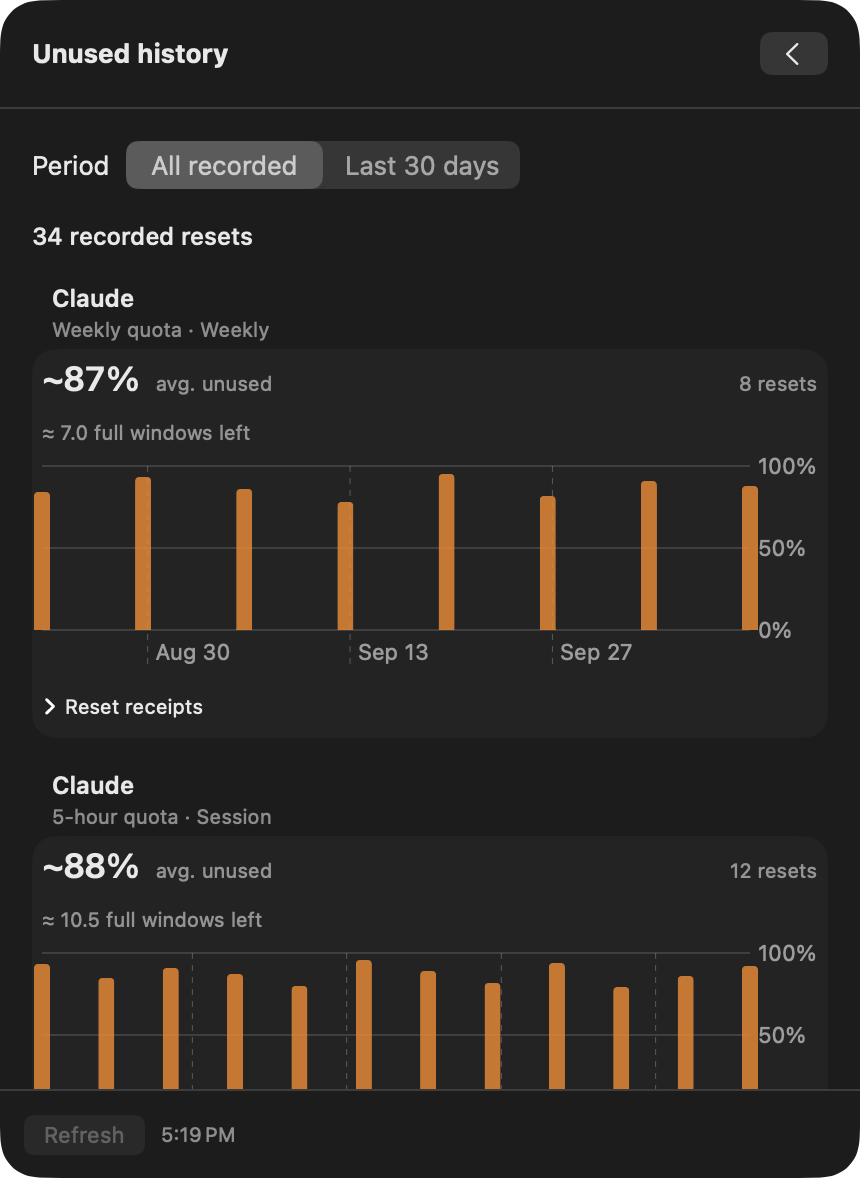
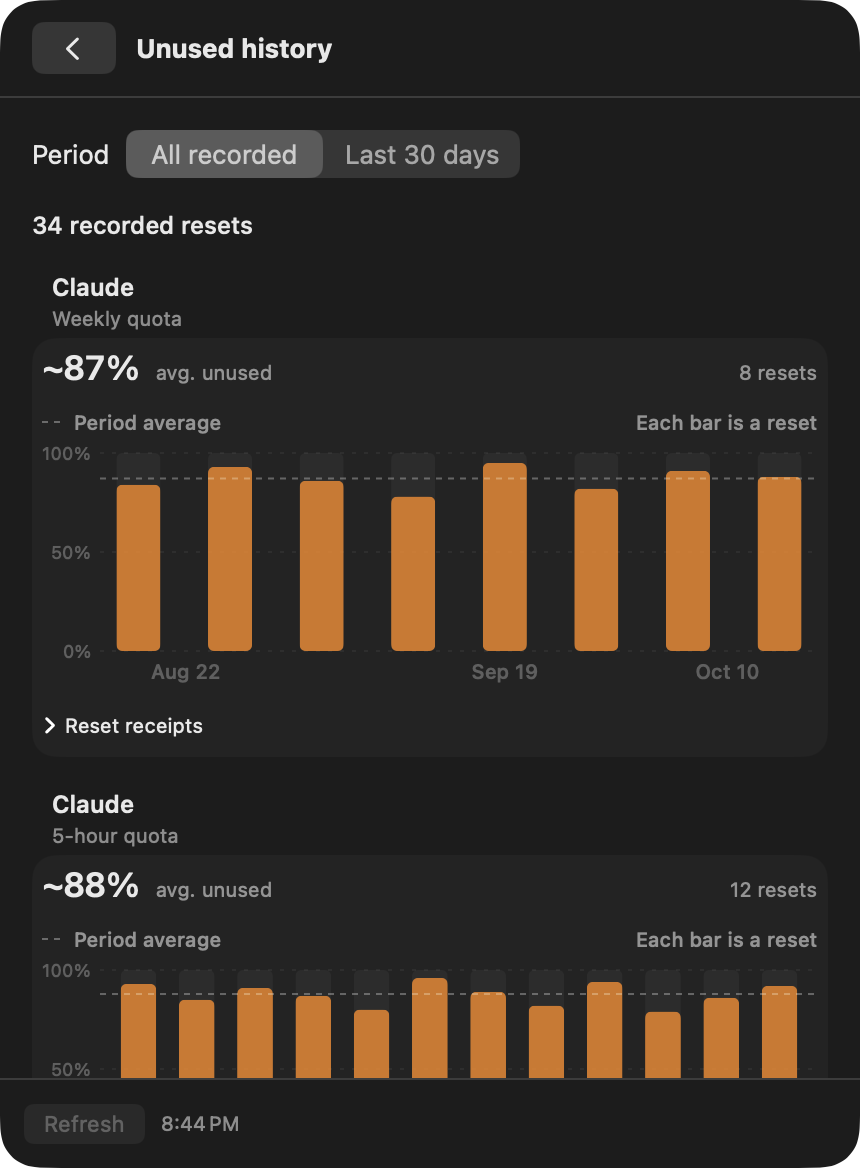
Clarify unused quota history with capacity tracks and reset inspection

diff --git a/Sources/BubbleTaxBar/UnusedHistoryView.swift b/Sources/BubbleTaxBar/UnusedHistoryView.swift
@@ -25,7 +25,7 @@ struct UnusedHistoryView: View {
                             .font(.callout).foregroundStyle(.secondary)
                     }.padding(.vertical, 16)
                 } else {
-                    Text("\(groups.reduce(0) { $0 + $1.windows.count }) recorded resets")
+                    Text("\(groups.reduce(0) { $0 + $1.windows.count }) recorded \(groups.reduce(0) { $0 + $1.windows.count } == 1 ? "reset" : "resets")")
                         .font(.callout.weight(.medium))
                     ForEach(groups) { group in
                         UnusedHistoryGroup(group: group,
@@ -44,6 +44,11 @@ struct UnusedHistoryView: View {
 private struct UnusedHistoryGroup: View {
     let group: UnusedQuotaGroup
     let previousAccount: Bool
+    private var subtitle: String {
+        let parts = group.title.components(separatedBy: " · ")
+        if parts.count == 2, parts[0].localizedCaseInsensitiveContains(parts[1]) || (group.windowMinutes == 300 && parts[1] == "Session") { return parts[0] }
+        return group.title
+    }
     var body: some View {
         GroupBox {
             VStack(alignment: .leading, spacing: 10) {
@@ -52,24 +57,13 @@ private struct UnusedHistoryGroup: View {
                         .font(.title2.weight(.semibold)).monospacedDigit()
                     Text("avg. unused").font(.caption).foregroundStyle(.secondary)
                     Spacer()
-                    Text("\(group.windows.count) resets").font(.caption).foregroundStyle(.secondary)
+                    Text("\(group.windows.count) \(group.windows.count == 1 ? "reset" : "resets")").font(.caption).foregroundStyle(.secondary)
                 }
-                Text("≈ \(group.fullWindowEquivalent.formatted(.number.precision(.fractionLength(1)))) full windows left")
-                    .font(.caption).foregroundStyle(.secondary)
-                    .help("Sum of the remaining fractions for this exact account and limit. Not a token count or a cash amount; quota capacity may change between resets.")
-                let samples = Array(group.windows.suffix(30))
-                Chart(samples, id: \.resetsAt) { reading in
-                    BarMark(x: .value("Reset", reading.resetDate), y: .value("Unused", reading.remainingPercent))
-                        .foregroundStyle(Color.orange.opacity(0.8))
-                }.chartYScale(domain: 0...100)
-                    .chartYAxis { AxisMarks(values: [0, 50, 100]) { axis in
-                        AxisGridLine()
-                        AxisValueLabel { if let value = axis.as(Int.self) { Text("\(value)%") } }
-                    } }
-                    .chartXAxis { AxisMarks(values: .automatic(desiredCount: 3)) }
-                    .frame(height: 100)
-                    .help("Last \(samples.count) recorded resets shown")
+                UnusedResetChart(windows: group.windows, average: group.averageUnused)
                 DisclosureGroup("Reset receipts") {
+                    Text("≈ \(group.fullWindowEquivalent.formatted(.number.precision(.fractionLength(1)))) full windows left across these resets")
+                        .font(.caption2).foregroundStyle(.secondary)
+                        .help("Sum of remaining fractions for this exact account and limit. Not tokens or money; quota capacity may change between resets.")
                     ForEach(group.windows.reversed(), id: \.resetsAt) { reading in
                         HStack(spacing: 10) {
                             Text(reading.resetDate, format: .dateTime.year().month(.abbreviated).day().hour().minute())
@@ -86,9 +80,136 @@ private struct UnusedHistoryGroup: View {
         } label: {
             VStack(alignment: .leading, spacing: 2) {
                 Text(group.provider.serviceName).font(.callout.weight(.semibold))
-                Text(group.title + (previousAccount ? " · Previous account" : ""))
+                Text(subtitle + (previousAccount ? " · Previous account" : ""))
                     .font(.caption).foregroundStyle(.secondary)
             }
+        }
+    }
+}
+
+/// Each bar is one observed reset, placed at its actual time. The faint track
+/// represents the full limit; only the colored portion was left near reset.
+private struct UnusedResetChart: View {
+    let windows: [QuotaWindow]
+    let average: Double
+    @State private var hoveredReset: Date?
+
+    private var samples: [QuotaWindow] { Array(windows.suffix(30)) }
+    private var selected: QuotaWindow? {
+        guard let hoveredReset else { return nil }
+        return samples.min { abs($0.resetDate.timeIntervalSince(hoveredReset)) < abs($1.resetDate.timeIntervalSince(hoveredReset)) }
+    }
+    private var domain: ClosedRange<Date> {
+        let first = samples.first!.resetDate
+        let last = samples.last!.resetDate
+        let padding = max(1800, last.timeIntervalSince(first) * 0.06)
+        return first.addingTimeInterval(-padding)...last.addingTimeInterval(padding)
+    }
+    private var axisDates: [Date] {
+        guard let first = samples.first, let last = samples.last else { return [] }
+        if samples.count == 1 { return [first.resetDate] }
+        if samples.count < 5 { return [first.resetDate, last.resetDate] }
+        return [first.resetDate, samples[samples.count / 2].resetDate, last.resetDate]
+    }
+    private var dateFormat: Date.FormatStyle {
+        if let first = samples.first, let last = samples.last,
+           last.resetDate.timeIntervalSince(first.resetDate) < 86400 {
+            return .dateTime.hour().minute().locale(Locale(identifier: "en_US"))
+        }
+        return .dateTime.month(.abbreviated).day().locale(Locale(identifier: "en_US"))
+    }
+
+    var body: some View {
+        if !samples.isEmpty {
+            VStack(alignment: .leading, spacing: 8) {
+                HStack(spacing: 5) {
+                    if let selected {
+                        Text(selected.resetDate, format: .dateTime.month(.abbreviated).day().hour().minute())
+                        Spacer()
+                        Text("\(Int(selected.remainingPercent.rounded()))% left at reset")
+                            .foregroundStyle(.primary).fontWeight(.medium)
+                    } else {
+                        HStack(spacing: 4) {
+                            Path { path in
+                                path.move(to: .zero)
+                                path.addLine(to: CGPoint(x: 12, y: 0))
+                            }.stroke(Color.secondary.opacity(0.6), style: StrokeStyle(lineWidth: 1, dash: [3, 3]))
+                                .frame(width: 12, height: 1)
+                            Text("Period average")
+                        }
+                        Spacer()
+                        Text(samples.count < windows.count ? "Latest \(samples.count) of \(windows.count) resets" : "Each bar is a reset")
+                    }
+                }
+                .font(.caption2).foregroundStyle(.secondary)
+                .monospacedDigit().frame(height: 14)
+
+                GeometryReader { geometry in
+                    let barWidth = max(4, min(22, (geometry.size.width - 32) / CGFloat(samples.count) * 0.6))
+                    Chart {
+                        ForEach(samples, id: \.resetsAt) { reading in
+                            BarMark(x: .value("Reset", reading.resetDate),
+                                    yStart: .value("Baseline", 0), yEnd: .value("Full quota", 100), width: .fixed(barWidth))
+                                .foregroundStyle(Color.primary.opacity(0.045))
+                                .cornerRadius(3)
+                                .accessibilityHidden(true)
+                            BarMark(x: .value("Reset", reading.resetDate),
+                                    yStart: .value("Baseline", 0), yEnd: .value("Left near reset", reading.remainingPercent), width: .fixed(barWidth))
+                                .foregroundStyle(Color.orange.opacity(selected == nil || selected?.resetsAt == reading.resetsAt ? 0.8 : 0.3))
+                                .cornerRadius(3)
+                                .accessibilityLabel(reading.resetDate.formatted(.dateTime.month().day().hour().minute()))
+                                .accessibilityValue("\(Int(reading.remainingPercent.rounded())) percent left near reset")
+                        }
+                        RuleMark(y: .value("Period average", average))
+                            .foregroundStyle(Color.secondary.opacity(0.55))
+                            .lineStyle(StrokeStyle(lineWidth: 1, dash: [3, 3]))
+                        if let selected {
+                            RuleMark(x: .value("Selected reset", selected.resetDate))
+                                .foregroundStyle(Color.secondary.opacity(0.3))
+                                .lineStyle(StrokeStyle(lineWidth: 1, dash: [2, 3]))
+                        }
+                    }
+                    .chartXScale(domain: domain)
+                    .chartYScale(domain: 0...100)
+                    .chartYAxis {
+                        AxisMarks(position: .leading, values: [0, 50, 100]) { axis in
+                            AxisGridLine(stroke: StrokeStyle(lineWidth: 0.5, dash: [2, 4]))
+                                .foregroundStyle(Color.secondary.opacity(0.18))
+                            AxisValueLabel {
+                                if let value = axis.as(Int.self) {
+                                    Text("\(value)%").font(.system(size: 9)).foregroundStyle(.secondary)
+                                }
+                            }
+                        }
+                    }
+                    .chartXAxis {
+                        AxisMarks(values: axisDates) { axis in
+                            if let date = axis.as(Date.self) {
+                                AxisValueLabel(anchor: samples.count == 1 ? .top : date == samples.last?.resetDate ? .topTrailing : date == samples.first?.resetDate ? .topLeading : .top) {
+                                    Text(date, format: dateFormat)
+                                        .font(.caption2).foregroundStyle(.secondary).fixedSize()
+                                }
+                            }
+                        }
+                    }
+                    .chartOverlay { proxy in
+                        GeometryReader { overlay in
+                            Rectangle().fill(.clear).contentShape(Rectangle())
+                                .onContinuousHover { phase in
+                                    switch phase {
+                                    case .active(let location):
+                                        guard let frame = proxy.plotFrame else { hoveredReset = nil; return }
+                                        let plot = overlay[frame]
+                                        guard plot.contains(location) else { hoveredReset = nil; return }
+                                        hoveredReset = proxy.value(atX: location.x - plot.minX, as: Date.self)
+                                    case .ended: hoveredReset = nil
+                                    }
+                                }
+                        }
+                    }
+                }.frame(height: 116)
+            }
+            .onChange(of: windows.map(\.resetsAt)) { _, _ in hoveredReset = nil }
         }
     }
 }

diff --git a/docs/APP_GUIDE.md b/docs/APP_GUIDE.md
@@ -40,7 +40,7 @@ Service review evidence uses the widest supported budget. A quiet session does n
 
 Near-reset observations become local history after their windows expire. Only account-identified observations within 15 minutes of reset qualify; subsequent usage before reset is unknown. Missed periods and unsupported reset data are excluded. The app cannot recover unobserved past quota.
 
-Unused history offers All recorded and Last 30 days, separate charts per account and limit, and reset receipts. The main quota details show recent expired-window estimates. Short-window and weekly percentages are never added together.
+Unused history offers All recorded and Last 30 days, separate charts per account and limit, and reset receipts. Each bar shows the unused fraction against a faint full-quota track at the actual reset time. A dashed line marks the selected period’s average; hover for a reset’s date and remaining percentage. Charts show up to the latest 30 resets, while the average and receipts cover the selected period. The main quota details show recent expired-window estimates. Short-window and weekly percentages are never added together.
 
 Account and workspace identities are hashed to partition records. Raw account emails and organization names are not saved. Verified identity or plan changes reset the relevant assessment baseline; anonymous local history is not assigned to a verified account.
 
